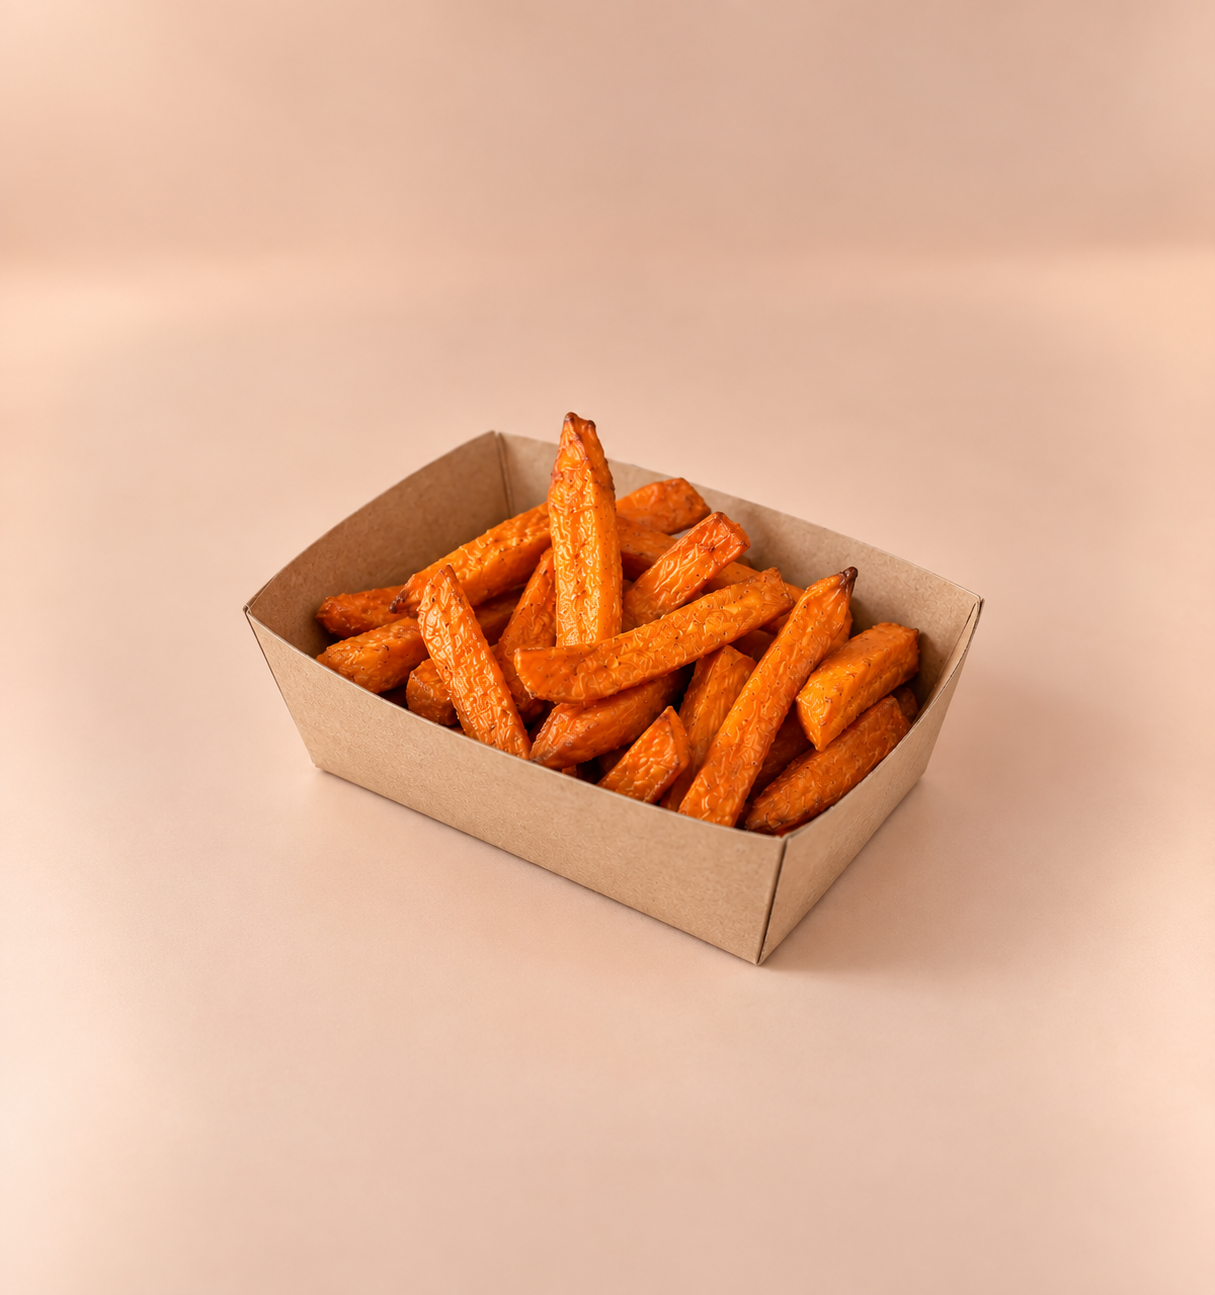
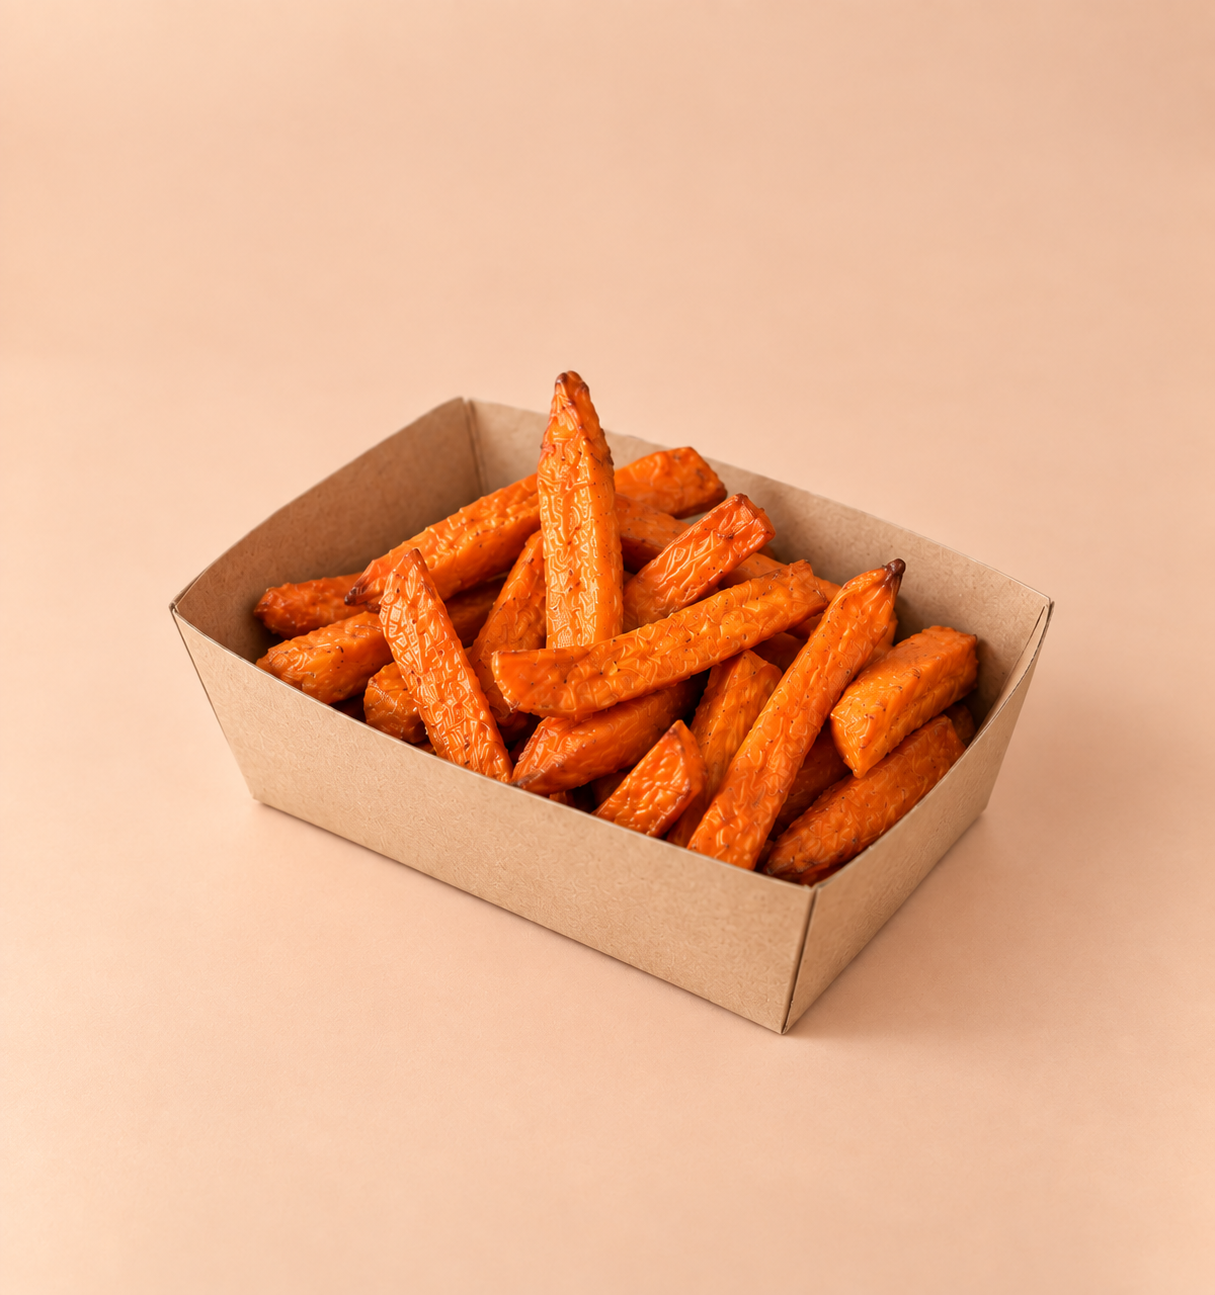
Frites de patates douces : image → frites-patates.png

Changed region(s): [[0.1218, 0.278, 1.0, 0.8958], [0.3959, 0.0, 0.5786, 0.0618], [0.4872, 0.1236, 0.5481, 0.1544]]

diff --git a/src/data/products.ts b/src/data/products.ts
@@ -798,7 +798,7 @@ export const allProducts: Product[] = [
     name_en: "Sweet Potato Fries",
     price: "5,50€",
     category: "Extra",
-    img: "/frites.webp",
+    img: "/frites-patates.png",
     desc: "",
     composition: ["Patates douces", "Fleur de sel", "Sauce fraîche aux herbes"],
     composition_en: ["Sweet potatoes", "Fleur de sel", "Fresh herb sauce"],

diff --git a/src/pages/CartePage.tsx b/src/pages/CartePage.tsx
@@ -178,7 +178,7 @@ const produits: Record<string, { id: string; name: string; price: string; img: s
       id: "frites-patates-douces",
       name: "Frites de patates douces",
       price: "5,50€",
-      img: "/frites.webp",
+      img: "/frites-patates.png",
     },
     {
       id: "halloumi-grille",
